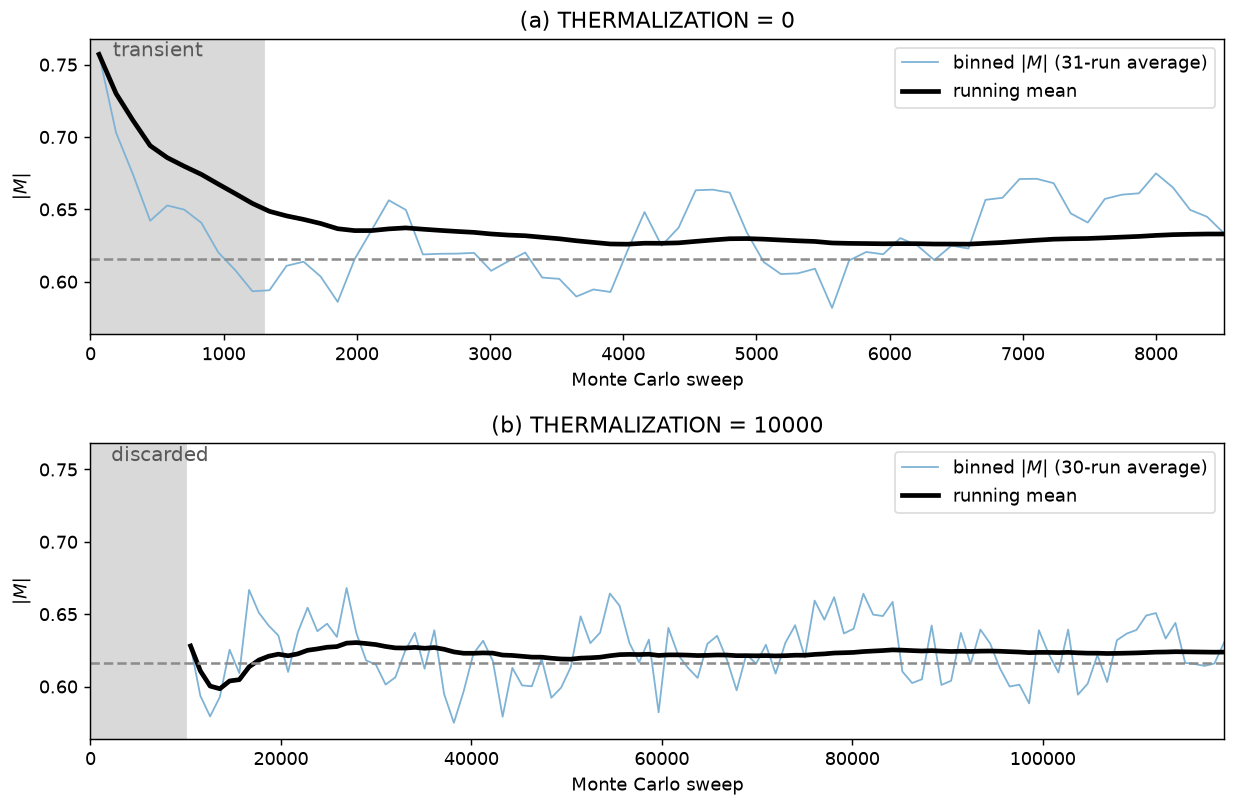
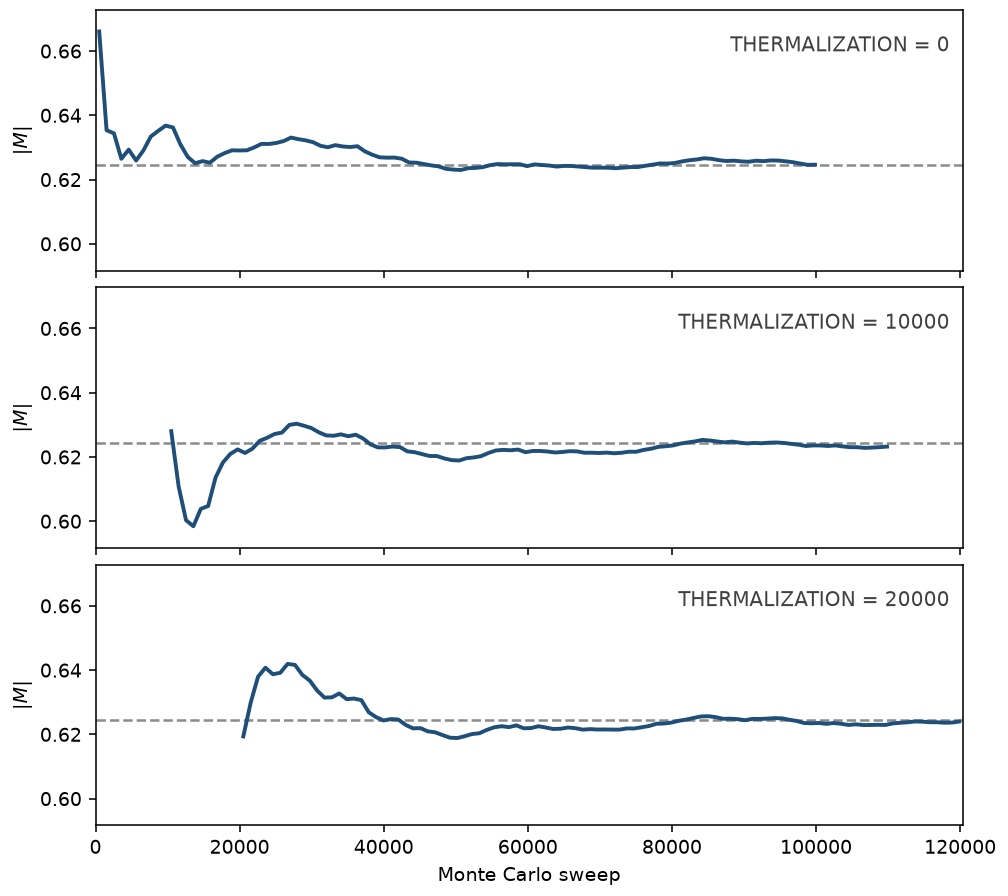
Replace MC-01b time series with single 3-panel running-mean figure
Collapse back to one figure, as on the live page. Removes the extra
single-run figure and the section added alongside it.

The figure now shows three panels for THERMALIZATION = 0, 10000 and
20000, plotting only the running mean and the equilibrium reference
line. All panels share a bin size of 1024 sweeps and the same ensemble
of 30 seeds, so THERMALIZATION is the only variable between them.

Reference line corrected from 0.616 to the measured 0.6244(33). The
0.616 figure was the bare L^(-1/8) scaling form, which omits the
non-universal amplitude and sits ~2.4 sigma below what the thermalized
runs actually produce.

diff --git a/content/en/tutorials/mcs/mc01b.md b/content/en/tutorials/mcs/mc01b.md
@@ -90,42 +90,27 @@ Plotting the raw array against its index instead labels the axis in bins while i
 
 ### Inspecting the time series
 
-Plot against the true sweep number and overlay the *running mean* — the average of all bins up to that point. Single bins fluctuate wildly; the running mean of an equilibrated chain converges smoothly onto the final answer, while an unthermalized one stays biased for a long time.
+Plot against the true sweep number and use the *running mean* — the average of all bins up to that point. Single bins fluctuate wildly, but the running mean of an equilibrated chain converges smoothly onto the final answer, while an unthermalized one stays biased for a long time.
 
 ```Python
 sweep = 10000 + (np.arange(len(ts_M)) + 0.5) * bin_size   # 10000 = THERMALIZATION
 running_mean = np.cumsum(ts_M) / np.arange(1, len(ts_M) + 1)
 
-plt.plot(sweep, ts_M, lw=1.0, alpha=0.5, label='binned |M|')
-plt.plot(sweep, running_mean, lw=2.6, color='black', label='running mean')
-plt.axhline(ts_M.mean(), ls='--', lw=1.4, color='0.55')
+plt.plot(sweep, running_mean, lw=2.0, color='black')
+plt.axhline(0.6244, ls='--', lw=1.4, color='0.55')
 plt.xlabel('Monte Carlo sweep')
 plt.ylabel('|M|')
-plt.legend()
 plt.show()
 ```
 
 ![](/figs/mcs01btimeseries.png)
 
-Panel **(a)** uses `THERMALIZATION=0` and panel **(b)** uses `THERMALIZATION=10000`. Both panels are averaged over ~30 independent `SEED` values, so the only variable that differs between them is `THERMALIZATION`. The grey dashed line is the equilibrium value $|M| = 0.616$. The shaded band marks the thermalization sweeps in (a), and the discarded thermalization sweeps in (b).
+Each panel shows the running mean of $|M|$ for a different `THERMALIZATION`, with the dashed line marking the equilibrium value $|M| = 0.6244(33)$ measured from the thermalized runs. All three panels use the same bin size (1024 sweeps) and the same ensemble of 30 `SEED` values, so `THERMALIZATION` is the only difference between them.
 
-- **A real transient is one-way.** `spinmc` starts from an ordered configuration, so $|M|$ decays onto the equilibrium value within the first 1000–2000 sweeps (panel (a)).
-- **`THERMALIZATION=10000` is about $60\,\tau$** — ample, and the running mean settles without drift. But a stable-looking mean is not proof of stationarity, which is what the test below is for.
-
-If the running mean is still drifting one way at the end of the run, increase `THERMALIZATION`.
-
-### What a single run actually looks like
-
-The averaged figure above hides how noisy one production run is. Re-plotting the *same* two simulations from a single seed each:
-
-![](/figs/mcs01btimeseries-singlerun.png)
-
-- **The fluctuations are identical in both panels.** Measured per-bin standard deviations are 0.099 (a) and 0.101 (b) — a ratio of 1.02. Thermalization removes the *bias* from the starting configuration; it does nothing to the width of the equilibrium distribution.
-- **The deep excursions are not transients.** They recur at comparable depth throughout the run: these are equilibrium critical fluctuations. ALPS reports `AUTOCORR` = $\tau \approx 168$ sweeps here, so one 1024-sweep bin holds only about three independent samples and swings this large are expected.
-- **Panel (a) no longer shows the transient.** This single seed sits in a high-$|M|$ excursion for its whole 8500 sweeps, so the running mean drifts downward without ever reaching 0.616. The transient is a drop of only 0.14, smaller than the 0.099 single-run noise.
+With `THERMALIZATION=0` the running mean starts near 0.67 — `spinmc` begins from an ordered configuration — and takes a few thousand sweeps to fall onto the dashed line. With 10000 or 20000 sweeps discarded there is no such decay; the early wander in those panels is just the running mean averaging over very few bins, and it settles onto the same value. If the running mean is still drifting one way at the end of the run, increase `THERMALIZATION`.
 
 {{< callout type="info" >}}
-`spinmc` only checks whether it is finished at intervals set by `--Tmin`, so it overshoots `SWEEPS` — these runs recorded 110,000–137,000 measurements rather than 100,000, and the overshoot varies from run to run. Harmless for statistics (extra equilibrium samples only help), but note that ALPS doubles its bin size as a run grows, so runs of different lengths can end up with *different* bin sizes. Check the `binsize` attribute before averaging several runs together.
+`spinmc` only checks whether it is finished at intervals set by `--Tmin`, so it overshoots `SWEEPS` — these runs recorded rather more than 100,000 measurements, and the overshoot varies from run to run. Harmless for statistics, but note that ALPS doubles its bin size as a run grows, so runs of different lengths can end up with *different* bin sizes. Check the `binsize` attribute before averaging several runs together.
 {{< /callout >}}
 
 ### Automated check: `pyalps.checkSteadyState`
